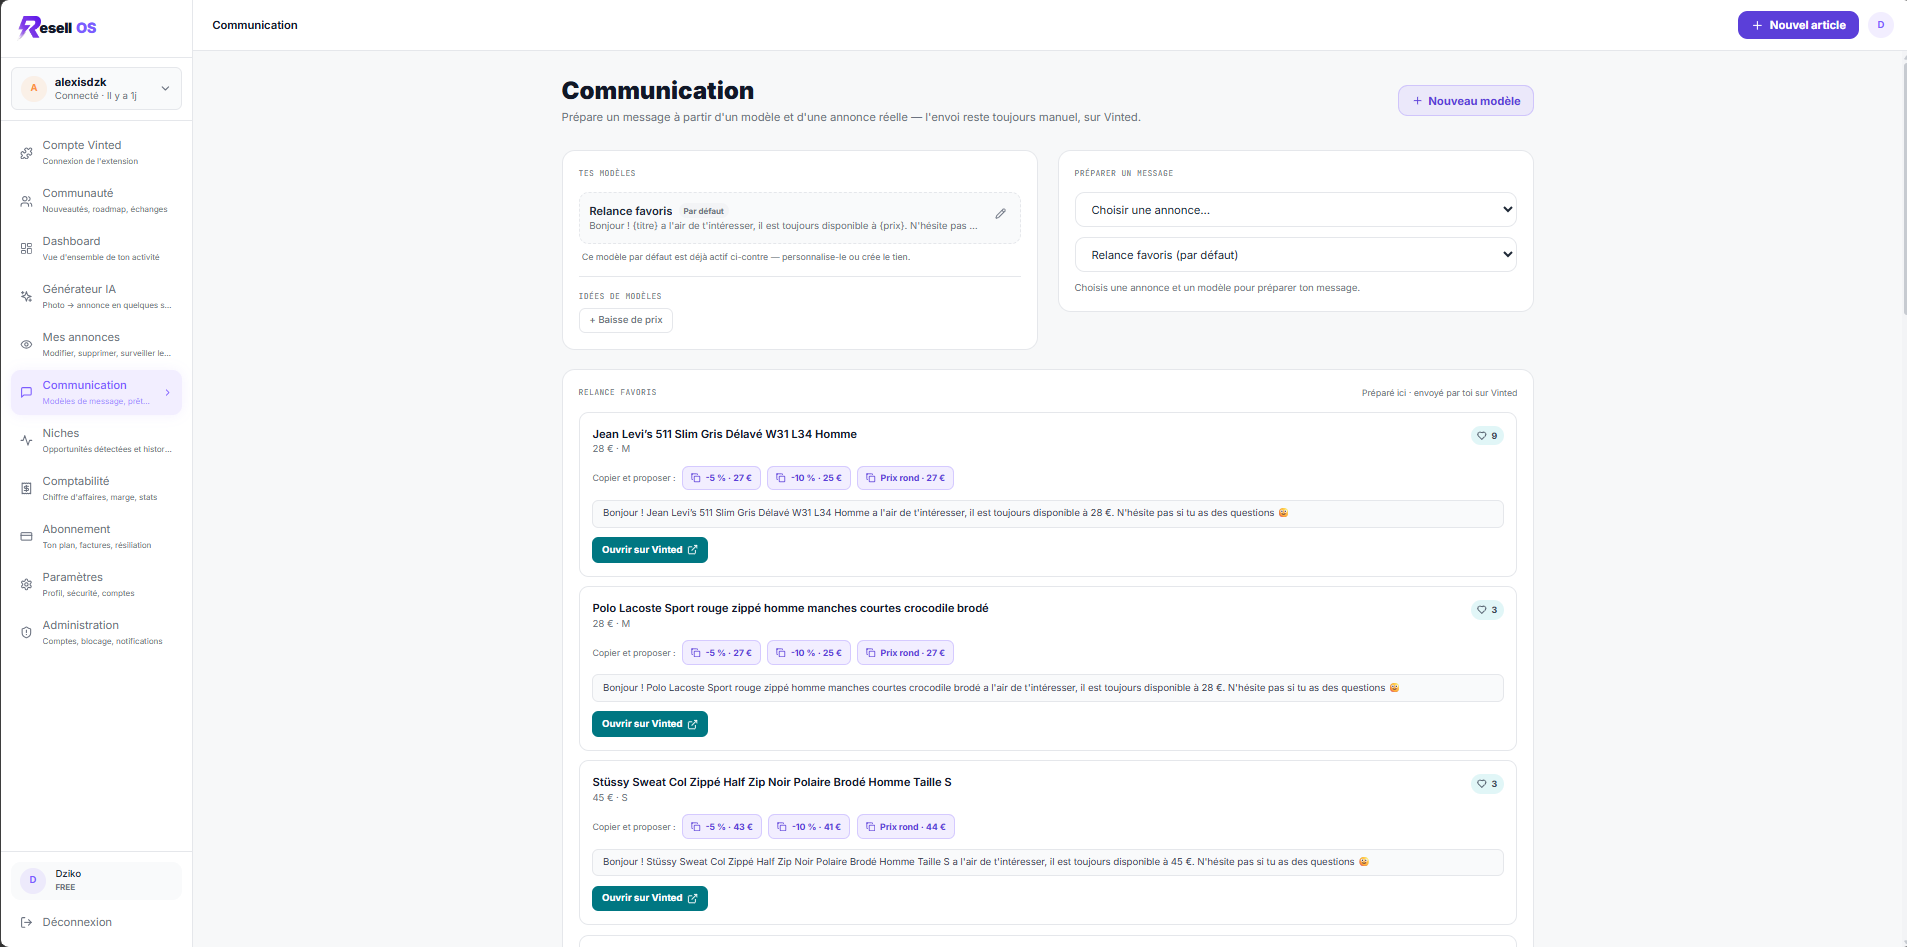
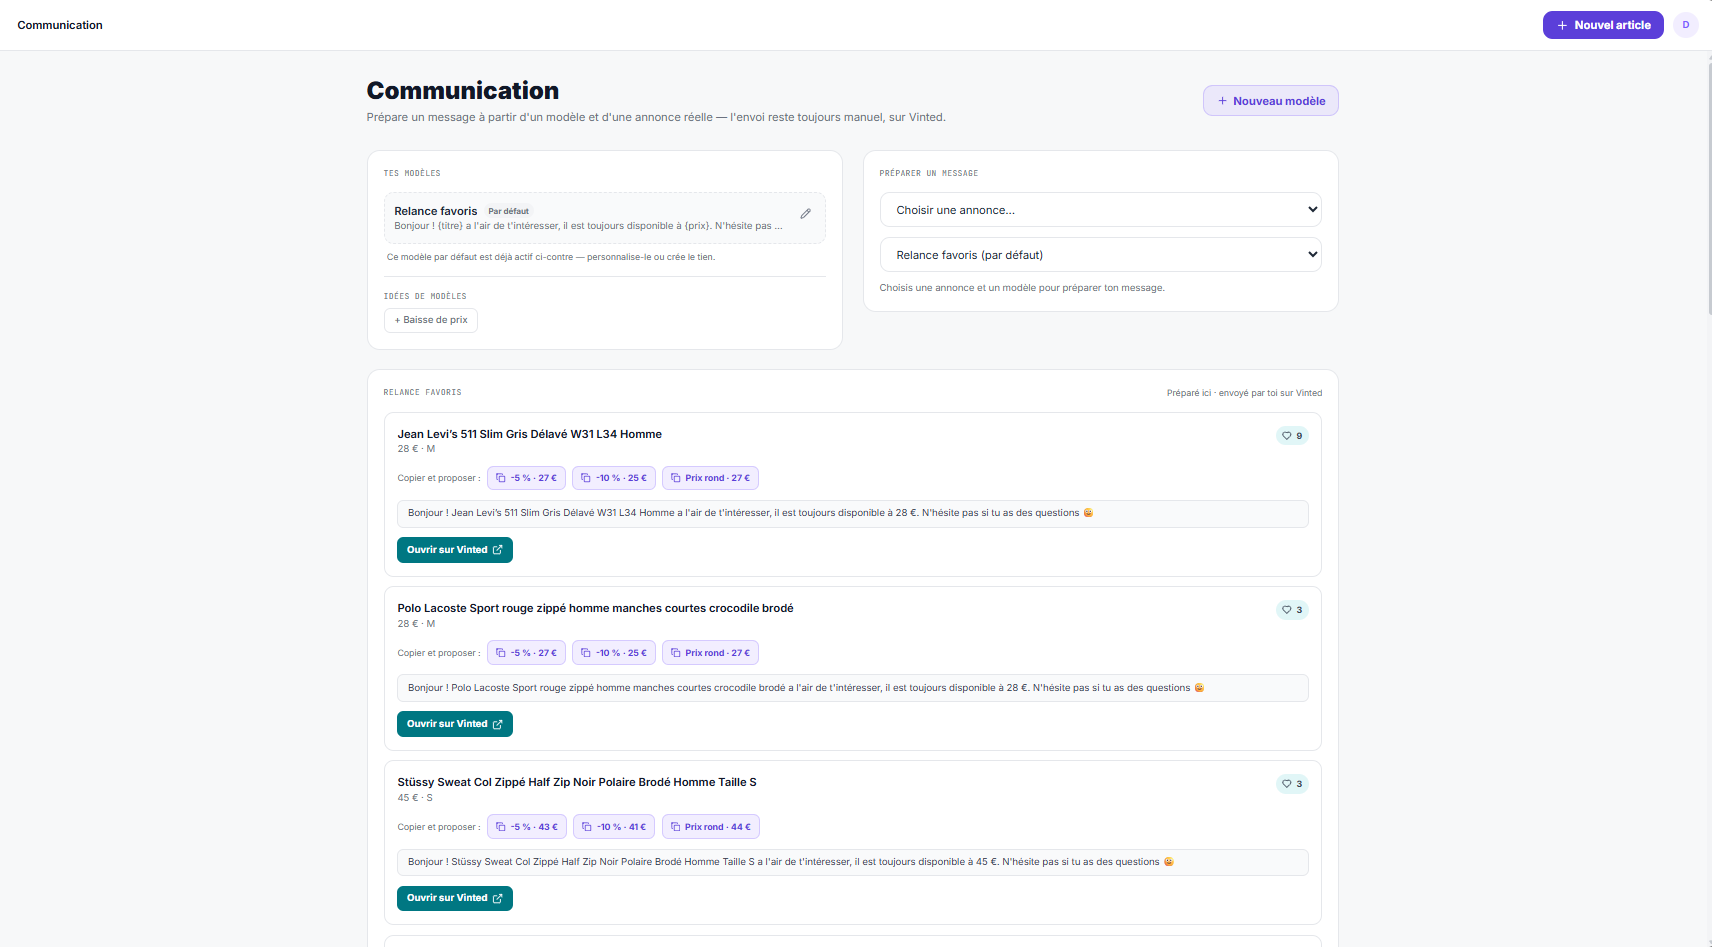
fix(landing): recadre la sidebar hors des 3 captures reelles
Retour 2026-08-29 : Republication/Communication affichaient une barre de
navigation laterale (sidebar ResellOS) parasite dans leur cadre macOS.

Diagnostic precis (mesure de pixels, pas une estimation) : les 3 captures
reelles (screenshot-stock.png, screenshot-communication.png,
screenshot-insights.png) sont issues du meme app shell et incluent toutes
la sidebar laterale (~190-195px sur ~1907-1910px de large). A l'aspect
ratio d'une carte bento (~2.19:1, plus large que la source ~2.0:1),
object-fit: cover ne rogne quasiment rien en largeur -- le crop se fait
en hauteur -- donc la sidebar restait entierement visible, quel que soit
le gabarit de carte.

Corrige a la source plutot qu'en CSS : les 3 PNG sont recadres (crop
pixel exact, verifie par echantillonnage de pixels pour trouver la
bordure sidebar/contenu sur chaque fichier -- 189/192/191px selon le
fichier) pour ne plus jamais contenir la sidebar, quel que soit l'aspect
ratio de la carte qui les affiche ensuite. Plus robuste qu'un object-
position/transform CSS qui aurait du etre recalibre a chaque breakpoint.

Insights (carte hero Copilote) corrige aussi, meme si seules Republication/
Communication avaient ete signalees -- meme composant source, meme defaut,
visible des qu'on regarde a une largeur desktop reelle.

Verifie : chaque PNG recadre inspecte visuellement (plus de sidebar,
contenu applicatif demarre au bord gauche). Typecheck/lint propres,
806/806 tests verts (inchanges), build de prod OK.

diff --git a/src/pages/landing/Features.tsx b/src/pages/landing/Features.tsx
@@ -66,7 +66,18 @@ const FEATURES = [
 // jamais de maquette vide) -- 'generator'/'discord'/'accounting' restent des
 // mockups stylises, memes raisons que toujours (voir le tri fait avant
 // integration : generateur vide, comptabilite a 0 €, communaute a 4 membres
-// -- aucune n'aurait servi l'objectif). Hauteur de media fixe (h-56/h-72/
+// -- aucune n'aurait servi l'objectif).
+// Sidebar de l'app recadree DANS LES FICHIERS SOURCE (2026-08-29) : les 3
+// captures reelles incluaient la sidebar laterale de ResellOS (~190px,
+// meme composant partout) -- a l'aspect ratio d'une carte bento, object-fit:
+// cover ne rognait quasi rien en largeur (le crop se faisait en hauteur),
+// donc la sidebar restait entierement visible. Corrige a la source (crop
+// PNG, pas de CSS) : plus robuste qu'un object-position/transform qui
+// aurait du etre recalibre a chaque breakpoint -- desormais SEUL le
+// contenu applicatif peut jamais apparaitre, quel que soit le gabarit de
+// carte. Affectait aussi 'insights' (carte hero), pas seulement les 2
+// signalees -- meme composant, meme defaut.
+// Hauteur de media fixe (h-56/h-72/
 // h-80 selon le gabarit de carte), jamais une hauteur en % : une carte de
 // grille bento etirable (CSS Grid align-items: stretch) rend une chaine de
 // hauteurs en % fragile pour un <img>/<video> (element remplace) -- les
